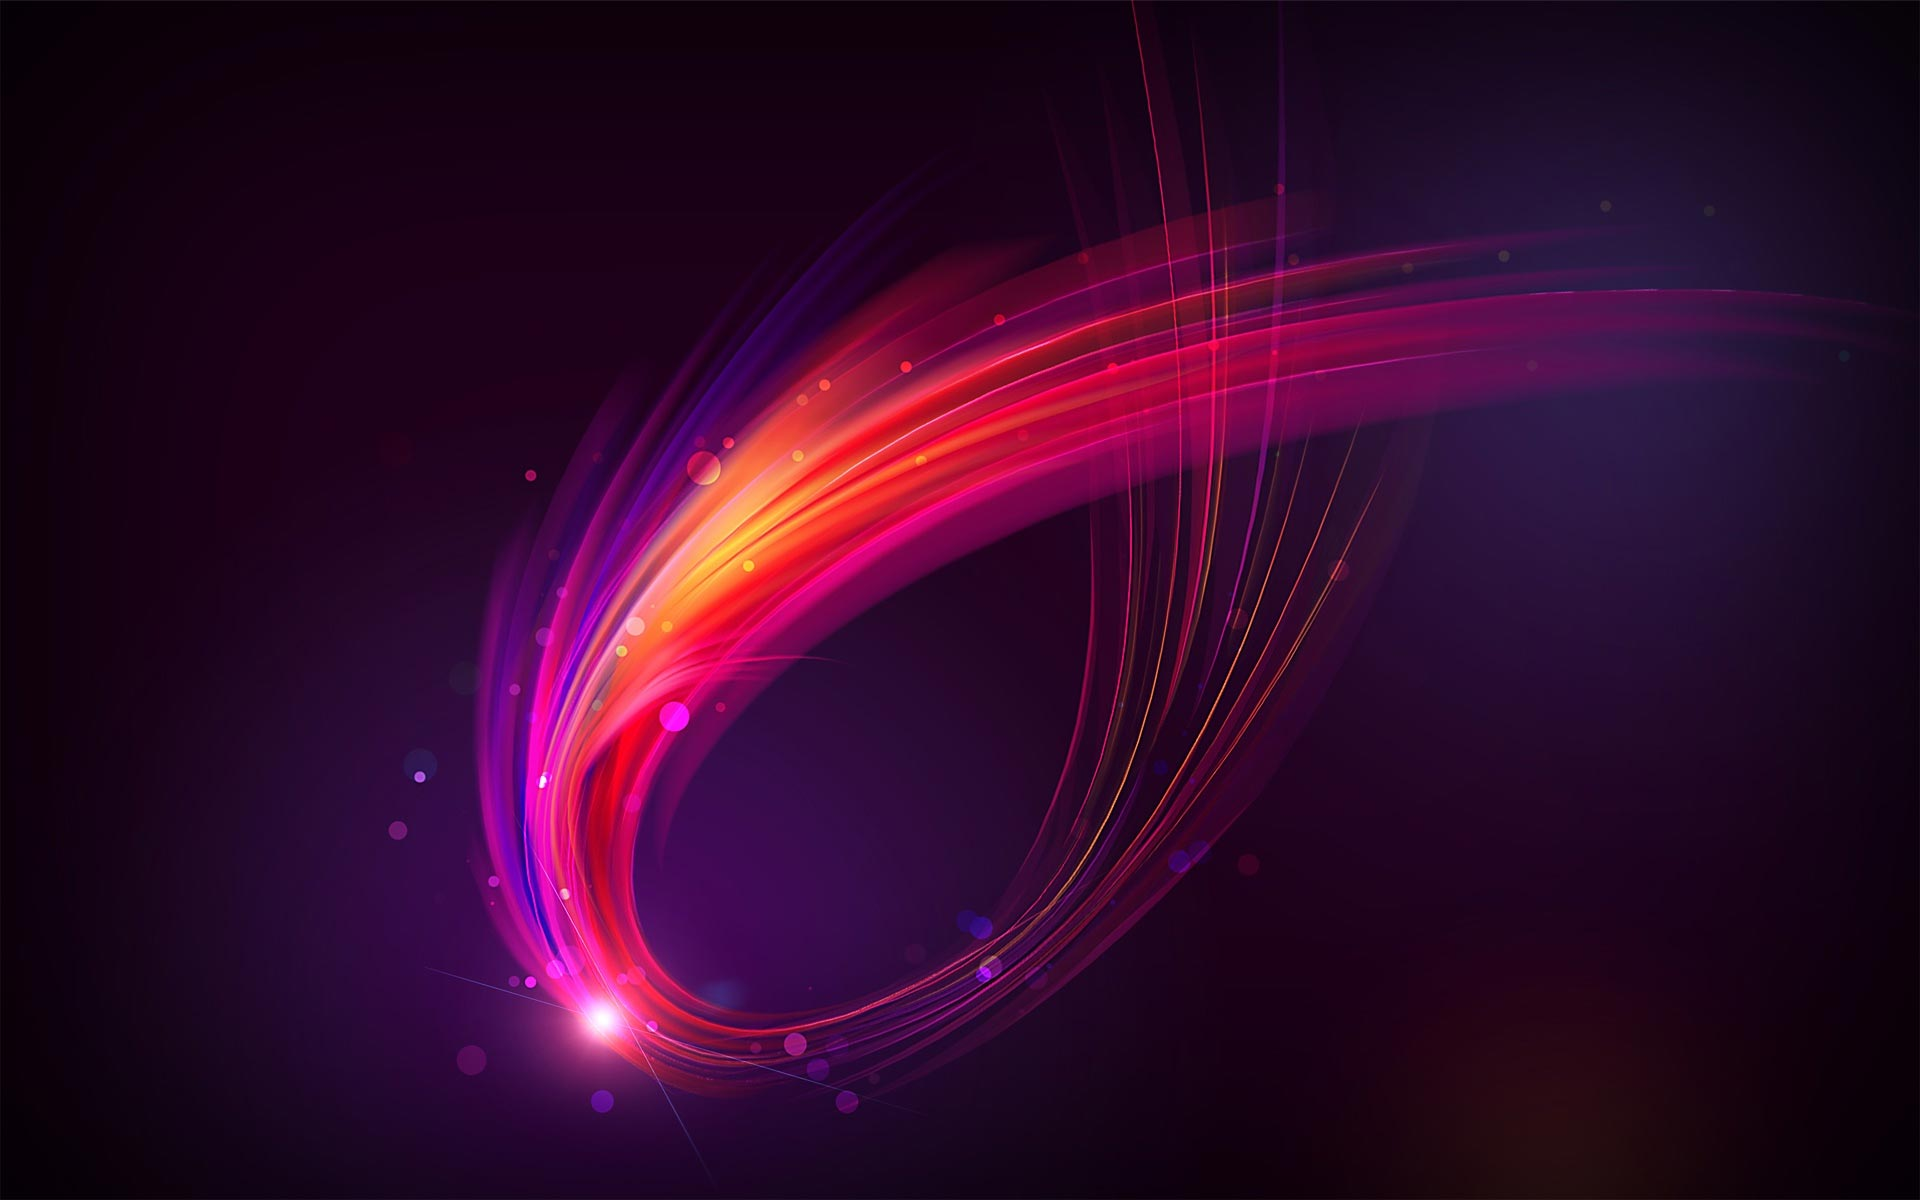
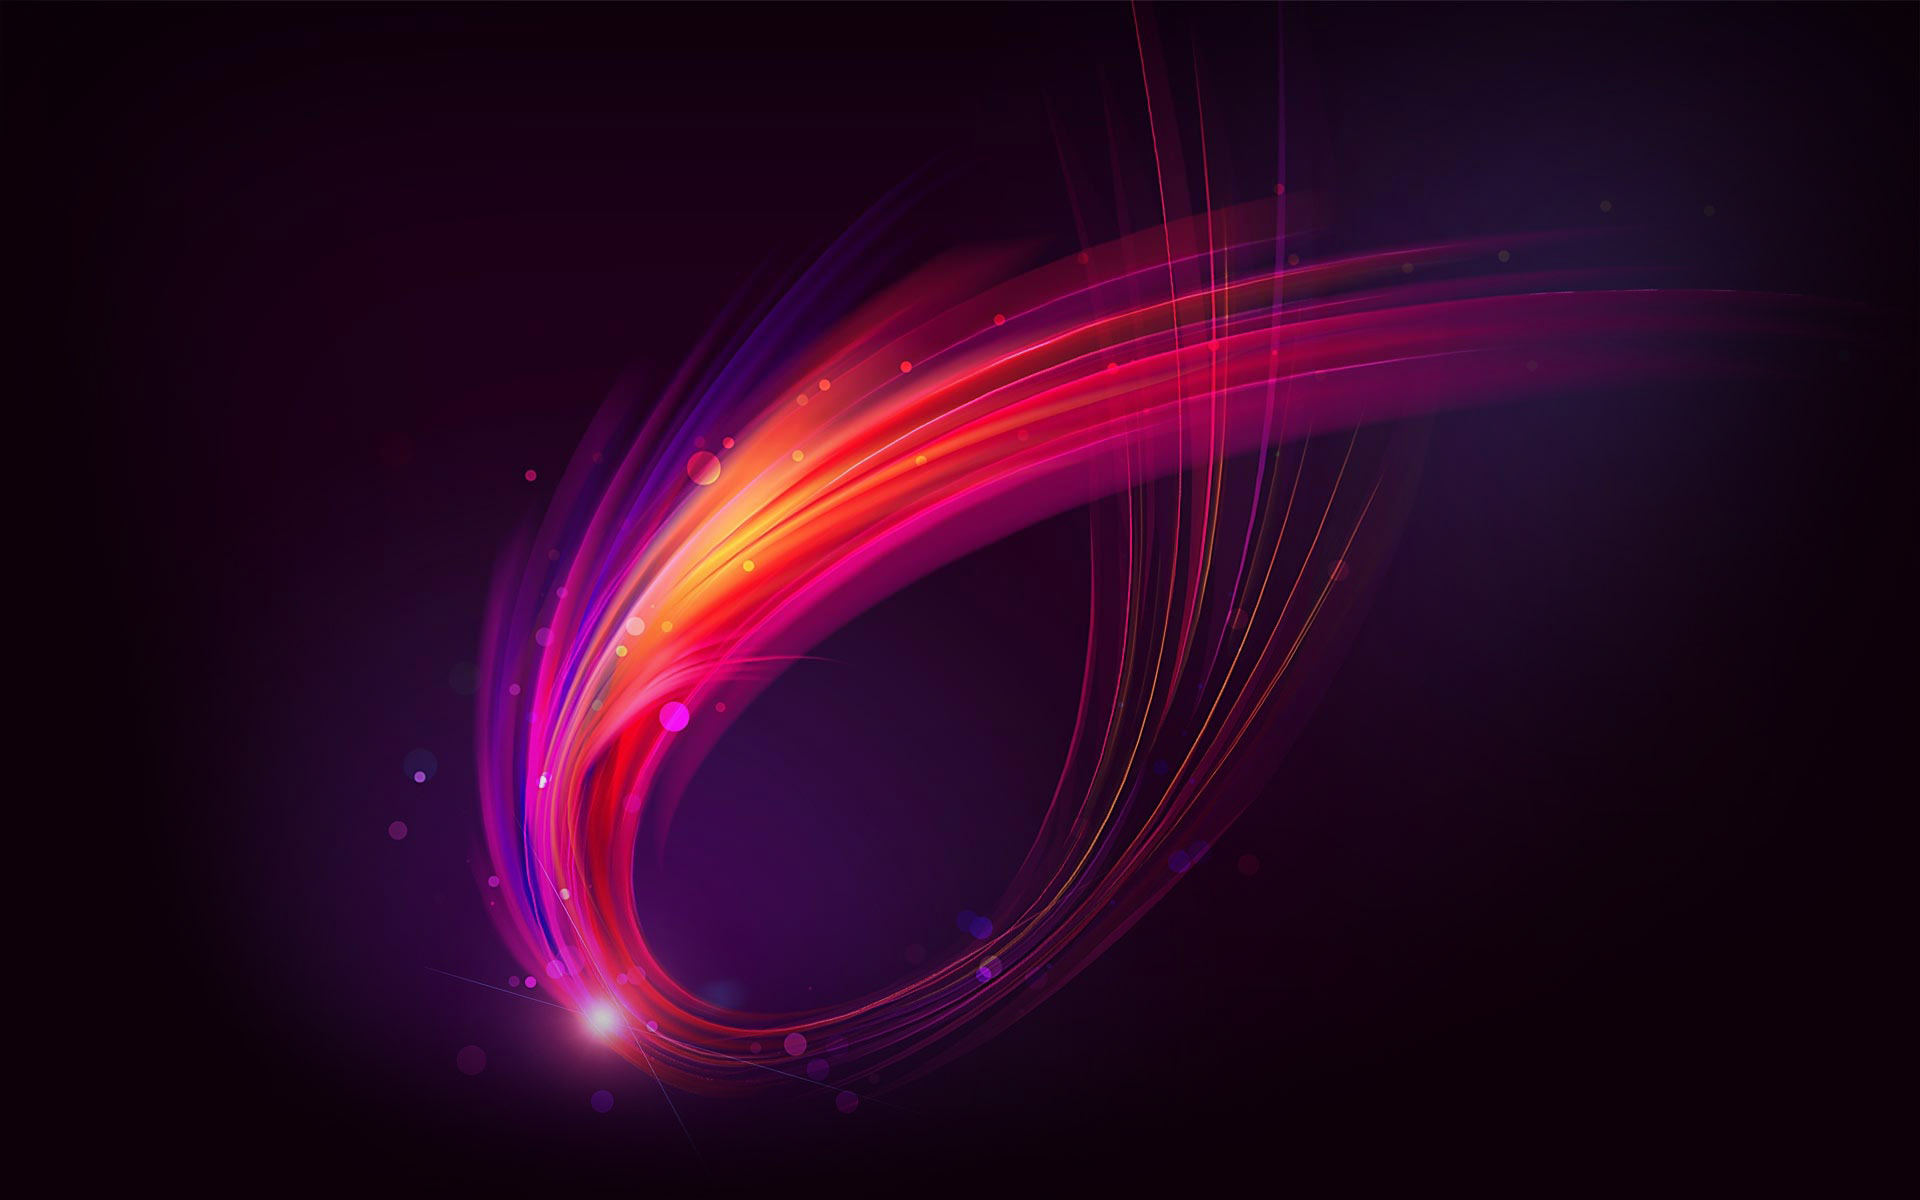
made second third and forth slide bgs repeat and changed the bg colour of the first and sixth slides

Changed region(s): [[0.125, 0.6475, 0.5312, 1.0], [0.8125, 0.2158, 0.9688, 0.5858], [0.75, 0.8325, 0.8438, 0.9867]]

diff --git a/css/style.css b/css/style.css
@@ -164,19 +164,19 @@ p {
 }
 
 #first {
-	background: url(../images/backgrounds/1920/01.jpg) no-repeat fixed 50% -70px transparent;
+	background: url(../images/backgrounds/1920/01.jpg) no-repeat fixed 50% -70px #121212;
 }
 
 #second {
-	background: url(../images/backgrounds/1920/02.jpg) no-repeat fixed 50% 0 transparent;
+	background: url(../images/backgrounds/1920/02.jpg) repeat fixed 50% 0 transparent;
 }
 
 #third {
-	background: url(../images/backgrounds/1920/03.jpg) no-repeat fixed 50% 0 transparent;
+	background: url(../images/backgrounds/1920/03.jpg) repeat fixed 50% 0 transparent;
 }
 
 #forth {
-	background: url(../images/backgrounds/1920/04.jpg) no-repeat fixed 50% 0 transparent; 
+	background: url(../images/backgrounds/1920/04.jpg) repeat fixed 50% 0 transparent; 
 }
 
 #fifth {
@@ -184,7 +184,7 @@ p {
 }
 
 #sixth {
-	background: url(../images/backgrounds/1920/06.jpg) no-repeat fixed 50% 0 transparent; 
+	background: url(../images/backgrounds/1920/06.jpg) no-repeat fixed 50% 0 #0c0008; 
 }
 
 .second .slide-number {
